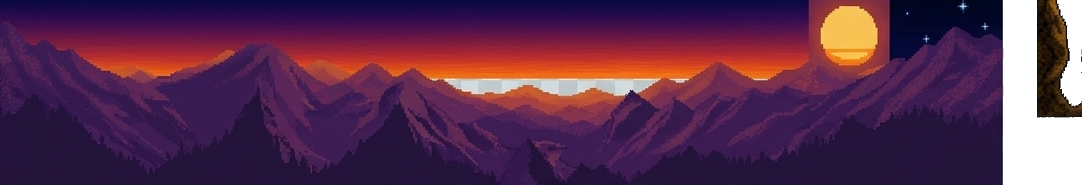
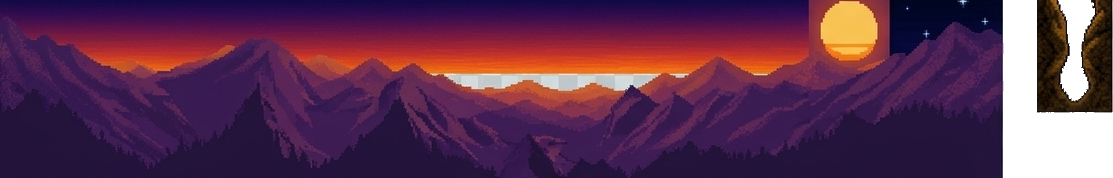
Wire retro tank sprites and tighten backdrop bounds
- Re-cropped backdrop.png to x=18-1131, y=410-588 in Sprites 2 (the
  cleanest bounds for the deep-background panorama). Removed the gray
  streak at the top edge (was leak from the section label row) and the
  waterfall sprite leak on the right.
- Added two retroTankBodies image game objects (blue and red) drawn at
  scale 0.55, origin (0.5, 1.0) so the treads sit on the tank's
  position. Visibility tracks the visualSystem; they hide for dead
  tanks and the procedural turret/gun continues to render on top.
- TankSystem.drawRetroPixelTank no longer paints a procedural tank
  body (the sprite replaces it). It now draws only the active-player
  marker, the aim turret/gun in the player palette, and the parachute
  pip — all positioned relative to the sprite's body extent.

Terrain rendering is still procedural in this pass — a textured tile
fill is a separate larger change.

diff --git a/src/game/systems/TankSystem.ts b/src/game/systems/TankSystem.ts
@@ -208,13 +208,13 @@ export class TankSystem {
     isActive: boolean,
     palette: PlayerPalette
   ): void {
+    // The tank BODY is now rendered by a sprite Image game object (placed by
+    // GameScene), so this routine only draws the active-player marker, the
+    // aim turret/gun, and the parachute pip on top of the sprite.
     const colors = GAME_CONFIG.colors;
-    const facing = tank.id === 0 ? 1 : -1;
     const baseColor = palette.primary;
-    const darkColor = palette.dark;
     const lightColor = palette.accent;
-    const bodyX = Math.round(tank.x - 20);
-    const bodyY = Math.round(tank.y - 19);
+    const bodyY = Math.round(tank.y - 32);
     const turretStart = this.getTurretStart(tank);
     const turretTip = this.getTurretTip(tank);
 
@@ -232,18 +232,6 @@ export class TankSystem {
       graphics.strokeTriangle(markerX, markerY, markerX - 8, markerY - 16, markerX + 8, markerY - 16);
     }
 
-    graphics.fillStyle(darkColor, 1);
-    graphics.fillRect(bodyX + 2, bodyY + 16, 38, 8);
-    graphics.fillStyle(baseColor, 1);
-    graphics.fillRect(bodyX + 7, bodyY + 7, 28, 10);
-    graphics.fillRect(bodyX + 13, bodyY + 1, 14, 8);
-    graphics.fillStyle(lightColor, 1);
-    graphics.fillRect(bodyX + 10, bodyY + 9, 20, 3);
-    graphics.fillStyle(colors.black, 1);
-    for (let i = 0; i < 5; i += 1) {
-      graphics.fillRect(bodyX + 6 + i * 7, bodyY + 18, 4, 4);
-    }
-
     graphics.lineStyle(4, baseColor, 1);
     graphics.beginPath();
     graphics.moveTo(turretStart.x, turretStart.y);
@@ -251,13 +239,13 @@ export class TankSystem {
     graphics.strokePath();
     graphics.lineStyle(2, lightColor, 1);
     graphics.beginPath();
-    graphics.moveTo(turretStart.x + facing * 1, turretStart.y - 1);
+    graphics.moveTo(turretStart.x, turretStart.y - 1);
     graphics.lineTo(turretTip.x, turretTip.y - 1);
     graphics.strokePath();
 
     if (tank.parachutes > 0) {
       graphics.fillStyle(colors.yellow, 1);
-      graphics.fillRect(bodyX - 8, bodyY + 2, 5, 5);
+      graphics.fillRect(Math.round(tank.x) - 26, bodyY + 8, 5, 5);
     }
   }
 

diff --git a/src/game/scenes/GameScene.ts b/src/game/scenes/GameScene.ts
@@ -33,6 +33,7 @@ export class GameScene extends Phaser.Scene {
   // Retro-mode image layers (created once, shown only when visualSystem === 'retroPixel').
   private retroBackdrop!: Phaser.GameObjects.Image;
   private retroCacti: Phaser.GameObjects.Image[] = [];
+  private retroTankBodies: Phaser.GameObjects.Image[] = [];
 
   private terrainSystem!: TerrainSystem;
   private tankSystem!: TankSystem;
@@ -82,6 +83,13 @@ export class GameScene extends Phaser.Scene {
     );
 
     this.tankGraphics = this.add.graphics();
+
+    // Retro tank body sprites (gun is drawn procedurally on top by tankGraphics).
+    this.retroTankBodies = [
+      this.add.image(0, 0, 'retro-tank-blue').setOrigin(0.5, 1).setScale(0.55),
+      this.add.image(0, 0, 'retro-tank-red').setOrigin(0.5, 1).setScale(0.55)
+    ];
+
     this.projectileGraphics = this.add.graphics();
 
     this.terrainSystem = new TerrainSystem();
@@ -478,6 +486,7 @@ export class GameScene extends Phaser.Scene {
     const retro = this.visualSystem === 'retroPixel';
     this.retroBackdrop.visible = retro;
     this.retroCacti.forEach((cactus) => (cactus.visible = retro));
+    this.retroTankBodies.forEach((tankImg) => (tankImg.visible = retro));
 
     if (retro && this.terrainData) {
       RETRO_CACTUS_POSITIONS.forEach((t, idx) => {
@@ -491,6 +500,17 @@ export class GameScene extends Phaser.Scene {
         const x = t * GAME_CONFIG.width;
         const y = this.terrainSystem.getHeightAtX(this.terrainData, x);
         cactus.setPosition(Math.round(x), Math.round(y) + 2);
+      });
+
+      // Position tank sprites at each tank's current position.
+      this.tanks.forEach((tank, idx) => {
+        const tankImg = this.retroTankBodies[idx];
+        if (!tankImg) return;
+        if (!tank.alive) {
+          tankImg.visible = false;
+          return;
+        }
+        tankImg.setPosition(Math.round(tank.x), Math.round(tank.y) + 2);
       });
     }
   }
